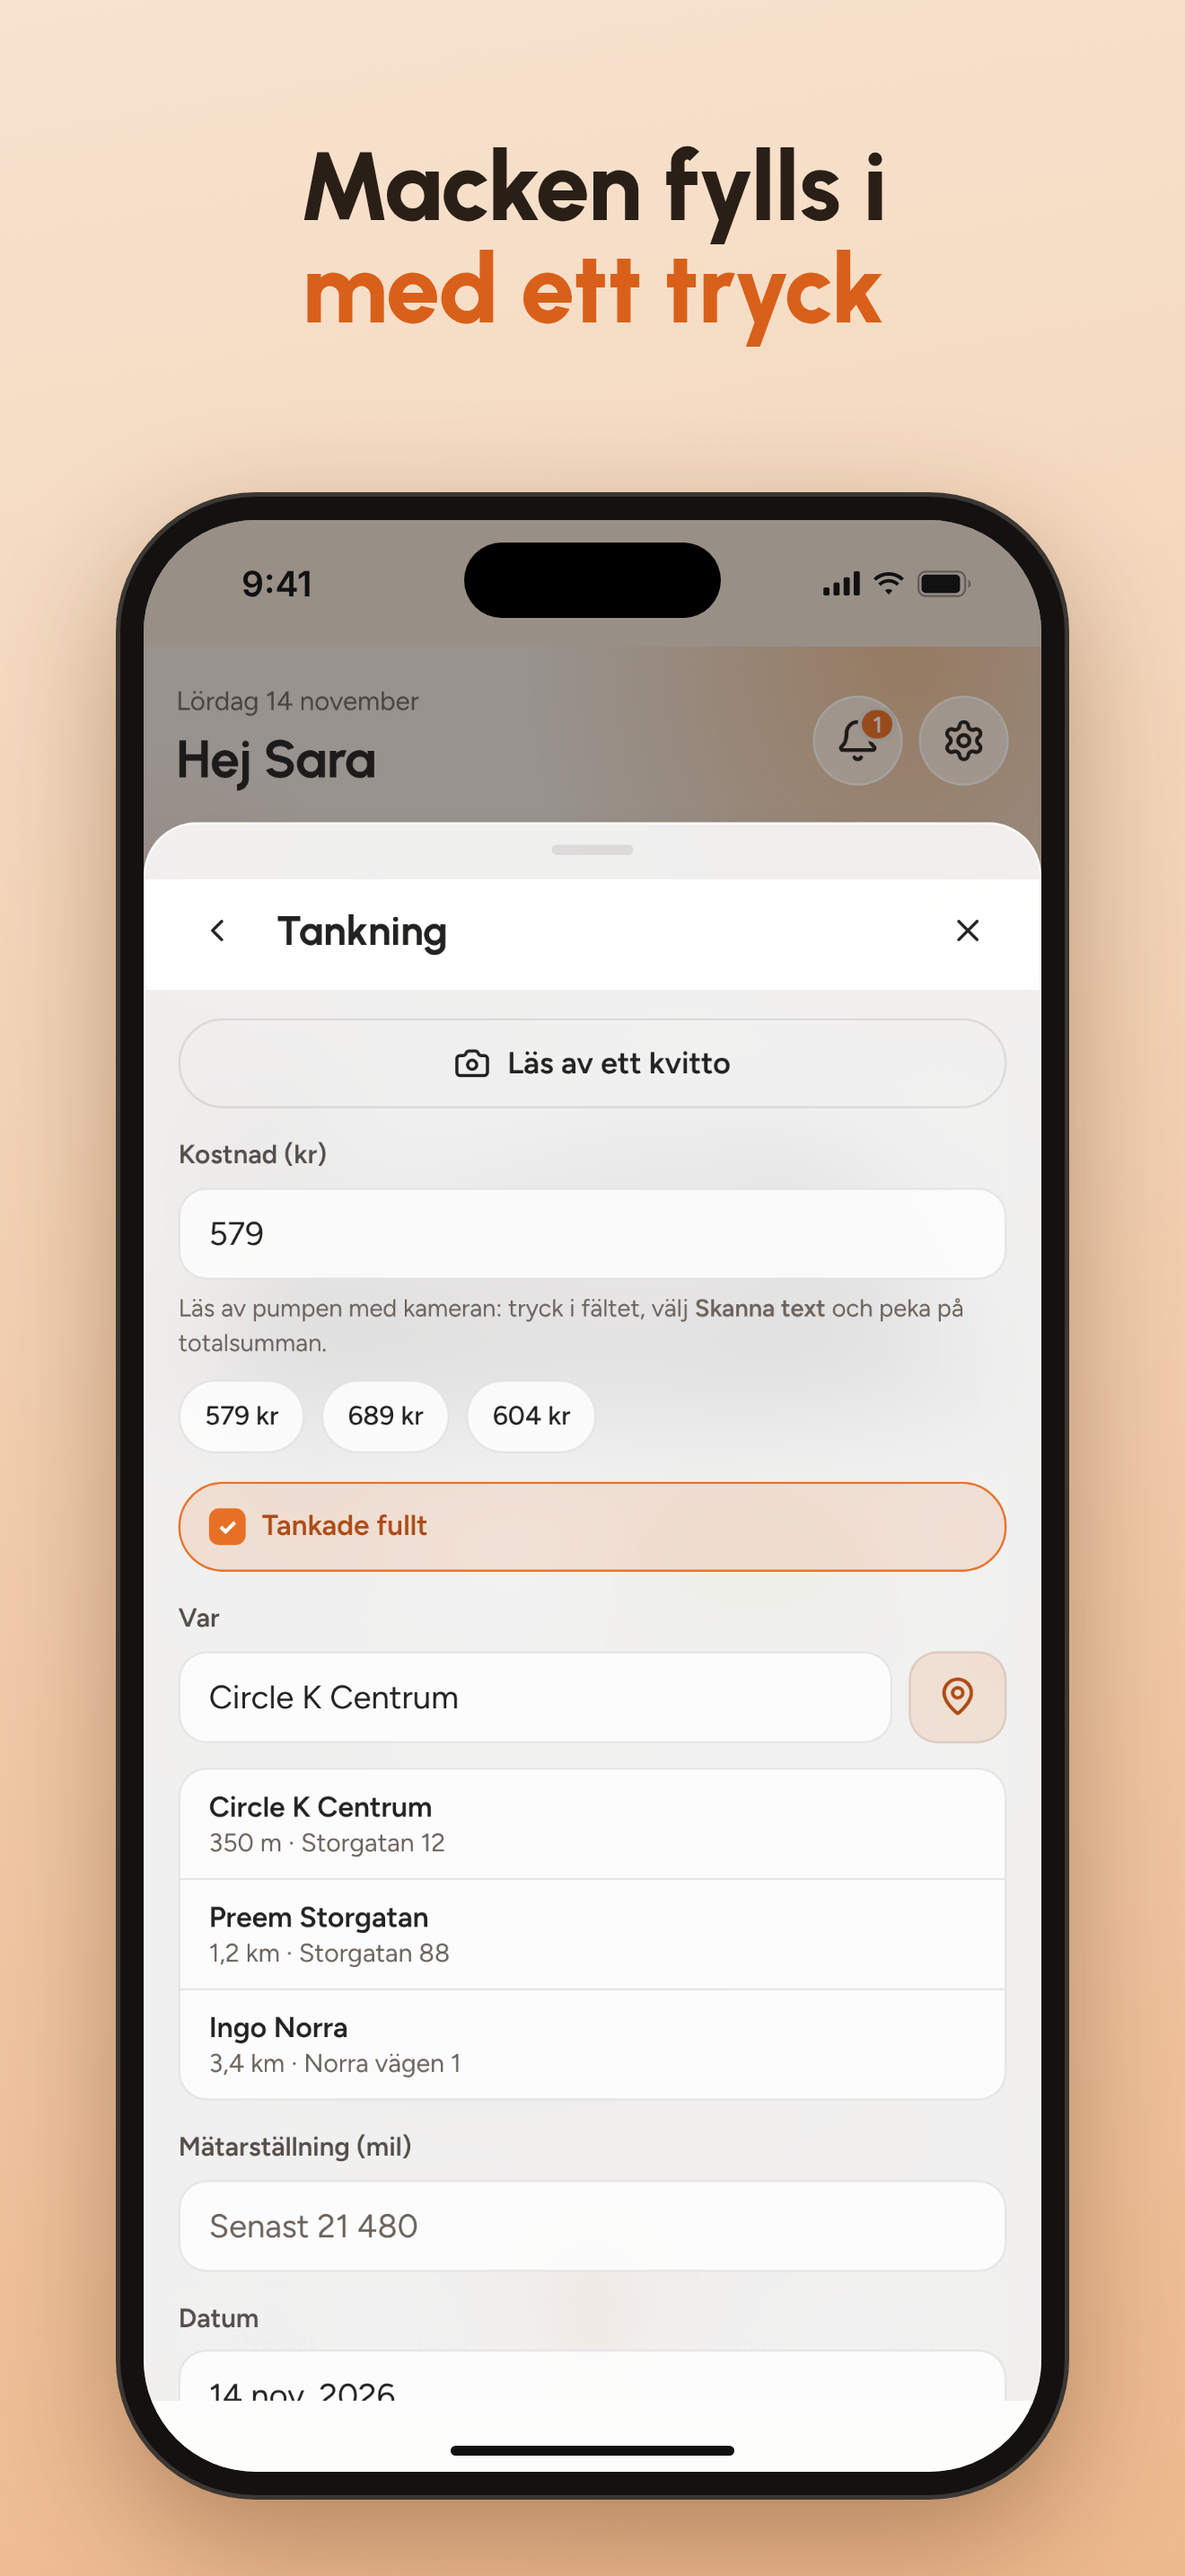
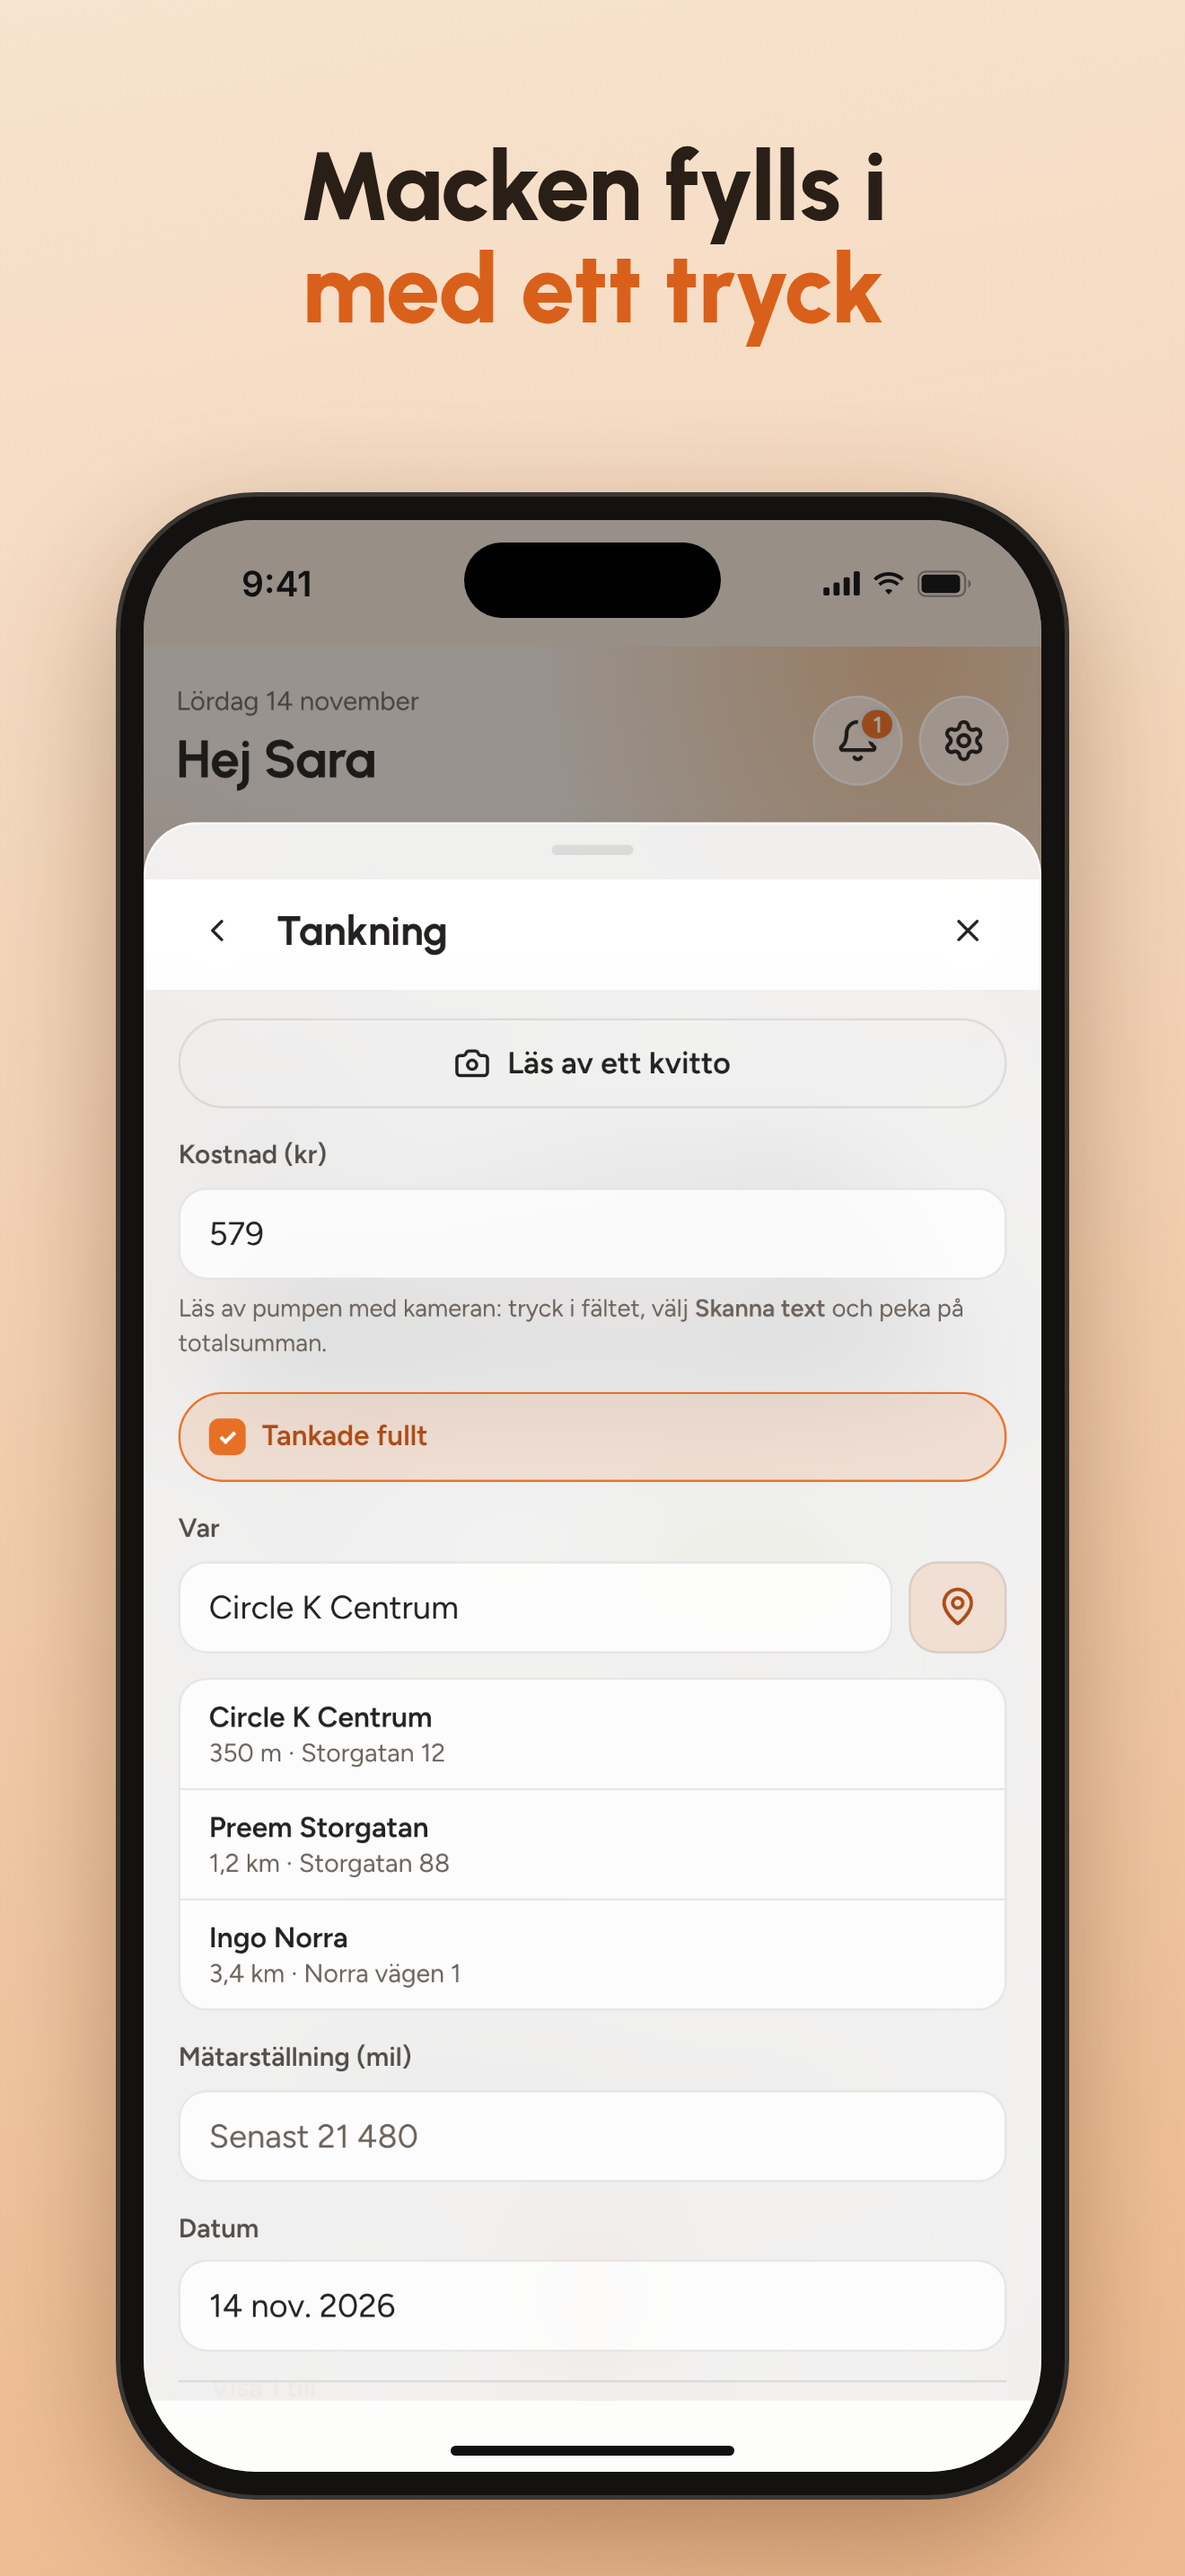
Tankning utan knappar med tidigare belopp (#152)
* Apple Maps-sökning, karta i bokningen och val av kartapp

- Var och Adress söker i Apple Maps (MapKit JS) med token som är låst till
  hemsidan (maps-config.js). Svarar inte Apple används OpenStreetMap som
  förut.
- Bokningen visar en liten karta med nål när platsen har position, även när
  en sparad bokning öppnas. En handskriven adress letas upp när fältet
  lämnas. Utan Apple visas en karta från OpenStreetMap.
- Tryck på kartan ger valet Apple Kartor eller Google Maps, med namn,
  adress och position ifyllda.

Claude-Session: https://claude.ai/code/session_01PEFnyMQFqKgaJqWGZT8Rs3

* Rätta kartans position med Apple Maps och öppna företagets sida i Kartor

Äldre bokningar hade fått sin position från OpenStreetMap, som bara hittade
gatan. När en sådan bokning öppnas letas platsen nu upp i Apple Maps och
rättas. Apple Kartor öppnar företagets egen sida via plats-id, och utan id
söks företagsnamnet nära platsen.

Claude-Session: https://claude.ai/code/session_01PEFnyMQFqKgaJqWGZT8Rs3

* Enhetligt utseende och beteende i hela appen

- Spara och Ändra är alltid orange. Ta bort är rött överallt.
- Kryssrutor är fyrkantiga och minst 44 punkter höga. Textlänkar har en större tryckyta.
- Mörkare grå och orange text, så att den går att läsa i solljus.
- Alla formulär har exempel i kostnadsfältet och anteckning och bild under Fler detaljer.
  Tankning har nu också en anteckning.
- Underhåll beskrivs likadant på Översikt och Bilen. Intervallet skrivs "var …" och hela år i år.
[…]

Changed region(s): [[0.1553, 0.5275, 0.8697, 0.6827], [0.1553, 0.6517, 0.3727, 0.931], [0.2795, 0.8689, 0.3106, 0.8999]]

diff --git a/app.js b/app.js
@@ -3556,11 +3556,6 @@ function entryForm(type, e = {}, opts = {}) {
     case "tank": {
       const fuels = fuelOptions(c);
       body = `${amount("579", "Kostnad (kr)", " required", "Läs av pumpen med kameran: tryck i fältet, välj <b>Skanna text</b> och peka på totalsumman.")}
-        ${!e.id ? (() => {
-          const seen = new Set();
-          const last = S.entries.filter((x) => x.carId === c.id && x.type === "tank" && x.amount > 0).map((x) => x.amount).filter((a) => !seen.has(a) && seen.add(a)).slice(0, 3);
-          return last.length ? `<div class="date-quick">${last.map((a) => `<button type="button" class="chip-btn" data-act="amount-quick" data-v="${esc(fmtKr(a))}">${esc(fmtKr(a))} kr</button>`).join("")}</div>` : "";
-        })() : ""}
         <label class="check"><input type="checkbox" name="full" id="ef-full"${e.full === false ? "" : " checked"}> Tankade fullt</label>
         ${placeField("station", "ef-station", e.station, "fuel", "Circle K")}
         ${odo(false)}
@@ -4959,7 +4954,6 @@ const ACTIONS = {
     render();
     document.querySelector(`[data-act="card-move"][data-id="${el.dataset.id}"][data-d="${el.dataset.d}"]`)?.focus({ preventScroll: true });
   },
-  "amount-quick"(el) { const a = $("#ef-amount"); if (a) { a.value = el.dataset.v; a.dispatchEvent(new Event("input", { bubbles: true })); } },
   "edit-doc"(el) { const d = (car()?.docs || []).find((x) => x.id === el.dataset.id); if (d) docForm(d); },
   "hide-photos"() { S.showPhotos = false; render(); },
   async "show-photos"() { S.showPhotos = true; render(); await loadPhotoGrid(); },

diff --git a/sw.js b/sw.js
@@ -1,5 +1,5 @@
 // Service worker: gör att appen startar även utan nät och kan visa notiser.
-const CACHE = "bildagboken-v157";
+const CACHE = "bildagboken-v158";
 const SHELL = [
   "./",
   "./index.html",
